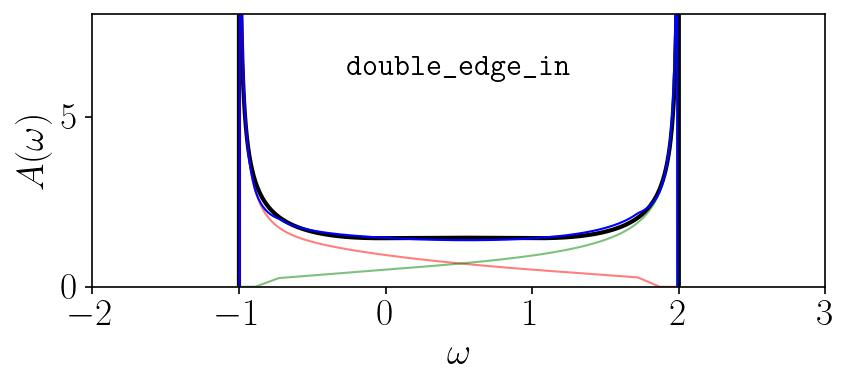
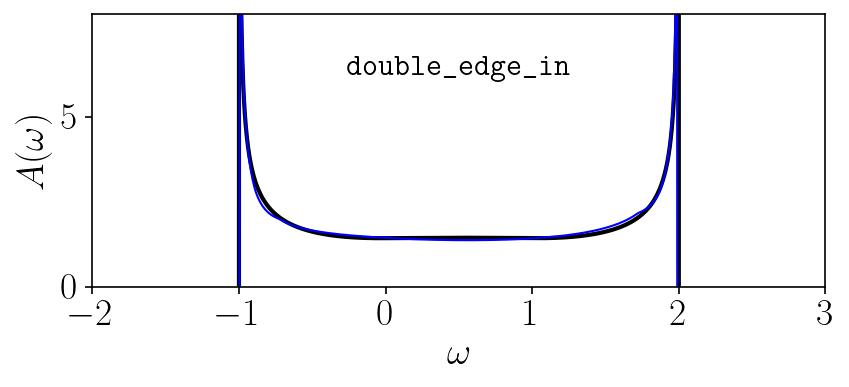
message

diff --git a/sac/plotting/plot_double_in.py b/sac/plotting/plot_double_in.py
@@ -29,8 +29,8 @@ x_interp = np.linspace(df_R.omega.min(), -df_L.omega.min(), 1000)
 R_interp = np.interp(x_interp, df_R.omega.values, df_R.S.values)
 L_interp = np.interp(x_interp, -df_L.omega.values[::-1], df_L.S.values[::-1])
 
-plt.plot(x_interp, R_interp, alpha = 0.5, c='r')
-plt.plot(x_interp, L_interp, alpha = 0.5, c='g')
+# plt.plot(x_interp, R_interp, alpha = 0.5, c='r')
+# plt.plot(x_interp, L_interp, alpha = 0.5, c='g')
 
 plt.plot(x_interp, R_interp+L_interp, c= 'b')
 
